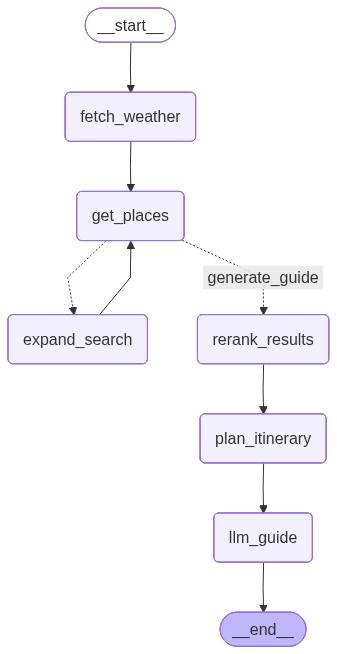
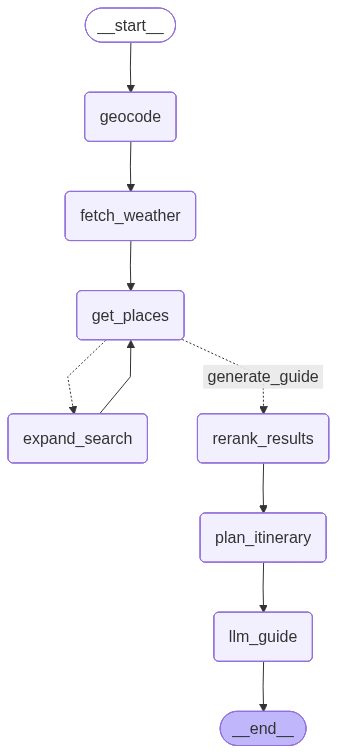
Added basic chainlit ui and a geolocation node

diff --git a/main.py b/main.py
@@ -8,6 +8,7 @@ from typing import List, Dict, Literal
 from dotenv import load_dotenv
 import requests
 import logging
+import json
 import os
 
 
@@ -17,10 +18,11 @@ logger = logging.getLogger("WanderWise")
 
 # State definition
 class AgentState(BaseModel):
-    user_location: str
+    user_query: str
+    user_location: str = ""
     user_vibe: str = "general"
     weather_context: str = ""
-    nearby_places: List[dict]= []
+    nearby_places: List[dict] = []
     structured_plan: Dict[str, List[dict]] = {}
     radius: int = 5000
     retry_count: int = 0
@@ -54,6 +56,7 @@ class WanderWiseAgent:
     def _create_workflow(self) -> StateGraph:
         builder = StateGraph(AgentState)
 
+        builder.add_node("geocode", self._geocoding_node)
         builder.add_node("fetch_weather", self._weather_node)
         builder.add_node("get_places", self._suggestions_node)
         builder.add_node("expand_search", self._expand_search_node)
@@ -61,7 +64,8 @@ class WanderWiseAgent:
         builder.add_node("plan_itinerary", self._itinerary_planner_node)
         builder.add_node("llm_guide", self._llm_node)
 
-        builder.add_edge(START, "fetch_weather")
+        builder.add_edge(START, "geocode")
+        builder.add_edge("geocode", "fetch_weather")
         builder.add_edge("fetch_weather", "get_places")
 
         builder.add_conditional_edges(
@@ -77,9 +81,26 @@ class WanderWiseAgent:
 
         return builder
 
+    def _geocoding_node(self, state: AgentState):
+        try:
+            url = (
+                f"https://api.geoapify.com/v1/geocode/search?"
+                f"text={state.user_query}&apiKey={self.geo_api_key}"
+            )
+            data = requests.get(url).json()
+            lon = data["features"][0]["properties"]["lon"]
+            lat = data["features"][0]["properties"]["lat"]
+            return {"user_location": f"{lat}, {lon}"}
+        except Exception as e:
+            logging.error(f"Geocoding failed: {e}")
+            return {"user_location": "0,0"}
+
     def _weather_node(self, state: AgentState):
         """Fetches real-time weather data for a given 'latitude, longitude'."""
         try:
+            if "," not in state.user_location:
+                return {"weather_context": "Location invalid"}
+
             lat, lon = state.user_location.split(",")
             url = (
                 f"https://api.openweathermap.org/data/2.5/weather?"
@@ -94,14 +115,14 @@ class WanderWiseAgent:
             return {
                 "weather_context": context,
                 "radius": state.radius,
-                "retry_count": state.retry_count
+                "retry_count": state.retry_count,
             }
         except Exception as e:
             logger.error(f"Weather Fetch Failed: {e}")
             return {
                 "weather_context": "Weather data unavailable",
                 "radius": state.radius,
-                "retry_count": state.retry_count
+                "retry_count": state.retry_count,
             }
 
     def _suggestions_node(self, state: AgentState):
@@ -145,8 +166,8 @@ class WanderWiseAgent:
     def _route_based_on_results(
         self, state: AgentState
     ) -> Literal["expand_search", "generate_guide"]:
-        if len(state.nearby_places) >= 5: 
-           return "generate_guide"
+        if len(state.nearby_places) >= 5:
+            return "generate_guide"
 
         if state.retry_count < 3:
             return "expand_search"
@@ -161,22 +182,30 @@ class WanderWiseAgent:
 
     def _itinerary_planner_node(self, state: AgentState):
         sorted_spots = sorted(state.nearby_places, key=lambda x: x["distance_meters"])
-        
+
         count = len(sorted_spots)
         morning_end = max(1, count // 3)
         afternoon_end = max(morning_end + 1, (2 * count) // 3)
 
         if count == 1:
-            itinerary = {"Morning (9 AM - 12 PM)": [sorted_spots[0]], "Afternoon (1 PM - 5 PM)": [], "Evening (6 PM - 9 PM)": []}
+            itinerary = {
+                "Morning (9 AM - 12 PM)": [sorted_spots[0]],
+                "Afternoon (1 PM - 5 PM)": [],
+                "Evening (6 PM - 9 PM)": [],
+            }
         elif count == 2:
-            itinerary = {"Morning (9 AM - 12 PM)": [sorted_spots[0]], "Afternoon (1 PM - 5 PM)": [sorted_spots[1]], "Evening (6 PM - 9 PM)": []}
+            itinerary = {
+                "Morning (9 AM - 12 PM)": [sorted_spots[0]],
+                "Afternoon (1 PM - 5 PM)": [sorted_spots[1]],
+                "Evening (6 PM - 9 PM)": [],
+            }
         else:
             itinerary = {
                 "Morning (9 AM - 12 PM)": sorted_spots[:morning_end],
                 "Afternoon (1 PM - 5 PM)": sorted_spots[morning_end:afternoon_end],
                 "Evening (6 PM - 9 PM)": sorted_spots[afternoon_end:],
             }
-        
+
         logger.info(f"Structured itinerary planned with {len(sorted_spots)} spots.")
         return {"structured_plan": itinerary}
 
@@ -208,26 +237,26 @@ class WanderWiseAgent:
                 raw_json = raw_json.split("```json")[1].split("```")[0].strip()
             elif "```" in raw_json:
                 raw_json = raw_json.split("```")[1].split("```")[0].strip()
-            import json
 
             scores = json.loads(raw_json)
             score_map = {item["id"]: item["score"] for item in scores}
 
             high_vibe_relevent_places = [
-                p for i, p in enumerate(state.nearby_places)
-                if score_map.get(i, 0) >= 6
+                p for i, p in enumerate(state.nearby_places) if score_map.get(i, 0) >= 6
             ]
 
             if len(high_vibe_relevent_places) < 3:
                 logger.info("Strict filter too aggressive. Switching to top scorers.")
                 sorted_by_score = sorted(
                     state.nearby_places,
-                    key = lambda x: score_map.get(state.nearby_places.index(x), 0),
-                    reverse = True
+                    key=lambda x: score_map.get(state.nearby_places.index(x), 0),
+                    reverse=True,
                 )
                 high_vibe_relevent_places = sorted_by_score[:5]
 
-            logger.info(f"Re-Ranker filtered {len(state.nearby_places)} spots down to {len(high_vibe_relevent_places)} high vibe matches.")
+            logger.info(
+                f"Re-Ranker filtered {len(state.nearby_places)} spots down to {len(high_vibe_relevent_places)} high vibe matches."
+            )
             return {"nearby_places": high_vibe_relevent_places}
         except Exception as e:
             logger.error(f"Re-ranking failed: {e}. Falling back to original list")
@@ -278,7 +307,7 @@ class WanderWiseAgent:
 
 if __name__ == "__main__":
     load_dotenv()
-    
+
     # Initialize the Agent
     agent = WanderWiseAgent(
         google_api_key=os.getenv("GOOGLE_API_KEY"),
@@ -311,11 +340,11 @@ if __name__ == "__main__":
 
     for scenario in test_scenarios:
         print(f"\n{'-'*20} RUNNING TEST: {scenario['name']} {'-'*20}")
-        
+
         result = agent.get_itinerary(
-            location=scenario["location"], 
-            vibe=scenario["vibe"], 
-            user_id=scenario["name"] 
+            location=scenario["location"],
+            vibe=scenario["vibe"],
+            user_id=scenario["name"],
         )
 
         print(f"Final Radius Reached: {result.get('radius', 5000)}m")

diff --git a/app.py b/app.py
@@ -1,0 +1,106 @@
+import os
+from dotenv import load_dotenv
+import chainlit as cl
+from chainlit.input_widget import Select
+from main import WanderWiseAgent
+
+load_dotenv()
+
+@cl.set_starters
+async def set_starters():
+    return [
+        cl.Starter(
+            label="Try for Free: Plan a Trip 🎒",
+            message="Help me plan a 3-day trip to a hidden gem!",
+        ),
+        cl.Starter(
+            label="Search by Vibe ✨",
+            message="Suggest a spiritual retreat near the mountains.",
+        ),
+    ]
+
+@cl.on_settings_update
+async def setup_agent(settings):
+    # Store settings in session so cl.on_message can see them
+    cl.user_session.set("settings", settings)
+    await cl.Message(content=f"Vibe updated to: {settings['Vibe']}").send()
+
+@cl.on_chat_start
+async def start():
+    # 1. Setup the Brand "Vibe" Selector in Sidebar
+    await cl.ChatSettings(
+        [
+            Select(
+                id="Vibe",
+                label="Choose your Vibe",
+                values=["Nature 🌿", "Spiritual 🧘", "Shopping 🛍", "Historical 🏛"],
+                initial_index=0,
+            )
+        ]
+    ).send()
+
+    # 2. Initialize your Agent
+    agent = WanderWiseAgent(
+        google_api_key=os.getenv("GOOGLE_API_KEY"),
+        geo_api_key=os.getenv("GEOAPIFY_API_KEY"),
+        weather_api_key=os.getenv("OPENWEATHER_API_KEY"),
+    )
+    cl.user_session.set("agent", agent)
+
+
+@cl.on_message
+async def main(message: cl.Message):
+    agent = cl.user_session.get("agent")
+    settings = cl.user_session.get("chat_settings")
+    vibe = settings.get("Vibe", "general").split(" ")[0].lower()
+
+    config = {"configurable": {"thread_id": cl.user_session.get("id")}}
+
+    initial_state = {
+        "user_query": message.content,
+        "user_vibe": vibe,
+        "nearby_places": [],
+        "structured_plan": {},
+    }
+    recommendation_text = "I couldn't generate a plan. Please try again!"
+    async with cl.Step(name="WanderWise Journey") as parent_step:
+        parent_step.input = message.content
+
+        async for event in agent.app.astream(initial_state, config=config):
+            for node_name, output in event.items():
+                if node_name == "llm_guide":
+                    final_output = output.get("final_recommendation", "")
+                    cl.user_session.set("final_output", final_output)
+
+                async with cl.Step(
+                    name=node_name, parent_id=parent_step.id
+                ) as node_step:
+                    if node_name == "geocode":
+                        location = output.get("user_location", "Unknown")
+                        node_step.output = f"🌎 Located destination at: {location}"
+
+                    elif node_name == "get_weather":
+                        weather = output.get("weather_context", "Checking...")
+                        node_step.output = f"☀ Weather Check: {weather}"
+
+                    elif node_name == "fetch_nearby_places":
+                        count = len(output.get("nearby_places", []))
+                        node_step.output = f"📍 Found {count} potential spots."
+
+                    elif node_name == "rerank_results":
+                        node_step.output = (
+                            f"⚖ Scoring results against your '{vibe}' vibe."
+                        )
+
+                    elif node_name == "generate_itinerary":
+                        node_step.output = "📝 Synthesizing your final travel plan..."
+
+                    else:
+                        # Falling back for any other nodes in graph
+                        node_step.output = f"Successfully executed {node_name}."
+
+    final_itinerary = cl.user_session.get("final_output")
+    if final_itinerary:
+        await cl.Message(content=final_itinerary).send()
+    else:
+        await cl.Message(content=recommendation_text).send()

diff --git a/chainlit.md b/chainlit.md
@@ -1,0 +1,16 @@
+# 🌍 WanderWise AI
+### Your Agentic Travel Companion
+
+WanderWise is an autonomous travel agent designed to help you discover hidden gems tailored to your specific "vibe." Powered by **Multi-Agent Orchestration**, we cross-reference weather, geography, and local sentiment in real-time to build your perfect journey.
+
+---
+
+### ✨ Features
+* **Vibe-Driven**: Choose between Nature, Spiritual, Historical, or Adventure.
+* **Agentic Logic**: If a match isn't found, the agent autonomously expands its search radius.
+* **Real-time Data**: Integrated with Google, Geoapify, and OpenWeather APIs.
+
+---
+
+### 🚀 Get Started
+Click a prompt below or type your destination to begin.
